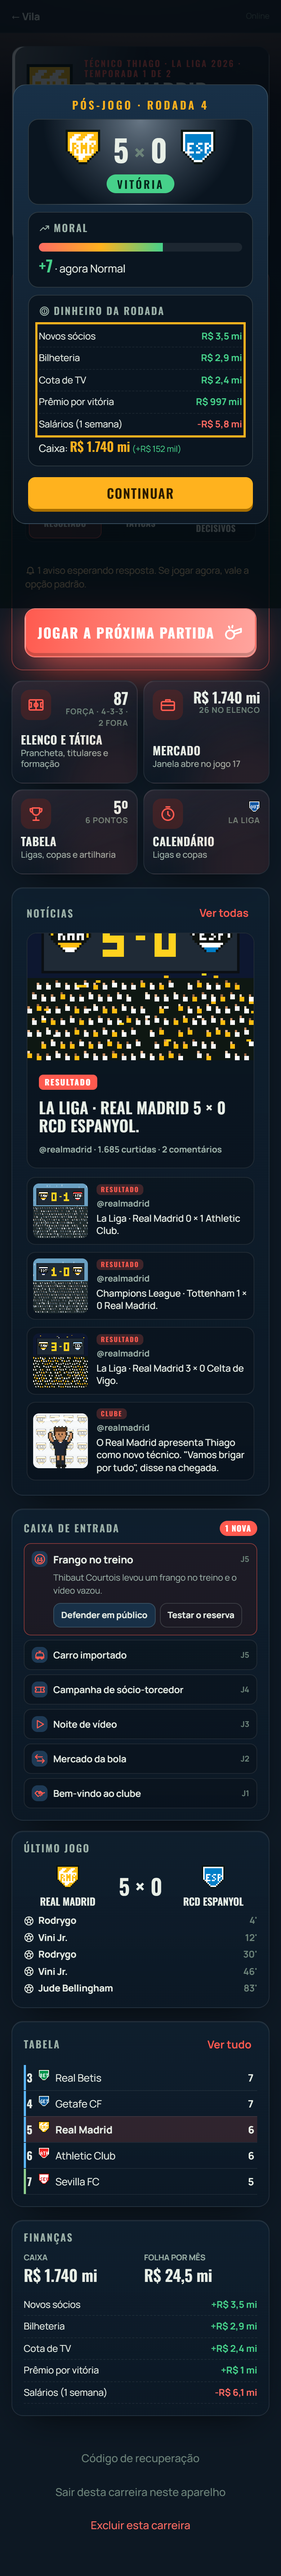
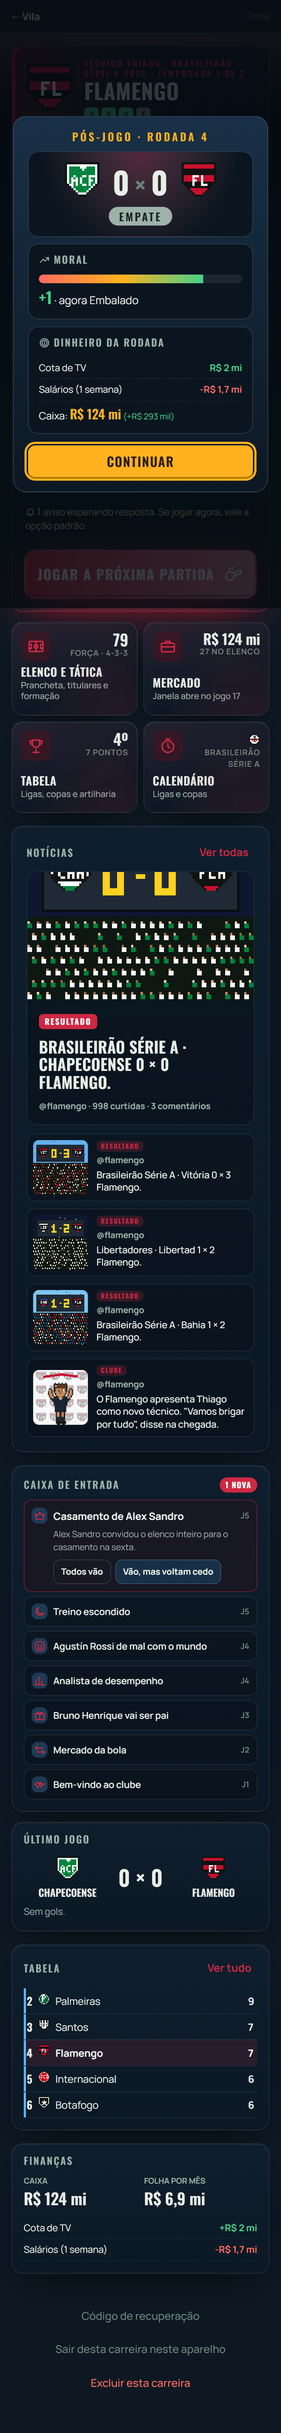
Carreira: o tema do hub na cor do clube
O acento (botão de jogar, destaques, brilho) deixa de ser a cor do campeonato e passa a
ser a primeira cor colorida do clube, clareada só o necessário para dar leitura no fundo
escuro. Clubes preto e branco ficam com o branco. Na sala em grupo, a tela pega a cor do
clube escolhido.

Changed region(s): [[0.0308, 0.0, 0.9846, 0.9688], [0.5538, 0.6875, 0.5846, 0.7812], [0.8615, 0.6562, 0.8923, 0.7188]]

diff --git a/public/carreira/inicio.js b/public/carreira/inicio.js
@@ -65,6 +65,21 @@ function escudo(id, escala = 2) {
 const luz = (hx) => { const n = parseInt(String(hx).slice(1), 16), c = [n >> 16, (n >> 8) & 255, n & 255].map((v) => { v /= 255; return v <= 0.03928 ? v / 12.92 : ((v + 0.055) / 1.055) ** 2.4; }); return 0.2126 * c[0] + 0.7152 * c[1] + 0.0722 * c[2]; };
 const contraste = (a, b) => { const [x, y] = [luz(a), luz(b)].sort((p, q) => q - p); return (x + 0.05) / (y + 0.05); };
 const tintaSobre = (fundo, preferida) => (contraste(fundo, preferida) >= 3 ? preferida : contraste(fundo, "#ffffff") >= contraste(fundo, "#111111") ? "#ffffff" : "#111111");
+// o tema da carreira na cor do clube: o acento (botões, destaques, brilho) é a primeira cor colorida do clube (o preto, o
+// branco e o cinza não contam), clareada só o necessário para dar leitura no fundo escuro. Clube preto e branco fica
+// com o branco. A letra em cima do acento contrasta (branca ou preta).
+const FUNDO_ESCURO = "#0c1824";
+const rgbDe = (hx) => { const n = parseInt(hx.slice(1), 16); return [n >> 16, (n >> 8) & 255, n & 255]; };
+const misturar = (a, b, p) => { const [x, y] = [rgbDe(a), rgbDe(b)]; return "#" + x.map((v, i) => Math.round(v + (y[i] - v) * p).toString(16).padStart(2, "0")).join(""); };
+const colorida = (hx) => { const c = rgbDe(hx); return Math.max(...c) - Math.min(...c) > 60; };
+function temaClube(id) {
+  const c = CLUBES[id]; if (!c) return "";
+  const base = c.cores.find(colorida);
+  let acento = "#ffffff";
+  if (base) { acento = base; for (let p = 0.1; contraste(acento, FUNDO_ESCURO) < 3.2 && p <= 0.7; p += 0.1) acento = misturar(base, "#ffffff", p); }
+  const tinta = contraste(acento, "#ffffff") >= contraste(acento, "#111111") ? "#ffffff" : "#111111";
+  return `--acento:${acento};--acento2:${c.cores.find((cor) => cor !== base) || "#ffffff"};--acento-tinta:${tinta}`;
+}
 const coresClube = (id) => (CLUBES[id] ? `--clube:${CLUBES[id].cores[0]};--clube2:${CLUBES[id].cores[1]};--clube-tinta:${tintaSobre(CLUBES[id].cores[0], CLUBES[id].cores[1])}` : "");
 // a festa (gol seu, contratação): confete nas cores do clube; quem pede menos movimento fica sem
 const festa = () => { if (matchMedia("(prefers-reduced-motion: reduce)").matches || !E) return; const c = CLUBES[E.clube]; Comum.confetti([c.cores[0], c.cores[1], "#ffb21e", "#e8efe7"]); };
@@ -83,7 +98,7 @@ function receber(estado) {
   E = estado;
   // os jovens que subiram da base não estão nos arquivos: chegam com o estado (o clube de origem vem do id)
   for (const [id, j] of Object.entries(E.jovens || {})) { JOGADORES[id] = { ...j, origem: id.replace(/-t\d+b\d+$/, "") }; registrarRosto(j); }
-  document.body.style.cssText = coresClube(E.clube);
+  document.body.style.cssText = `${coresClube(E.clube)};${temaClube(E.clube)}`;
   if (telaAtual && telaAtual !== "partida" && telaAtual !== "inicio") desenharTela(telaAtual);
 }
 // os ícones dos atalhos (montados uma vez)

diff --git a/public/carreira/estilo.css b/public/carreira/estilo.css
@@ -450,19 +450,12 @@ button.perigo:disabled{opacity:.45;cursor:not-allowed}
 
 /* ---------- o hub (a sede): menu de videogame de futebol ----------
    No PC, três colunas: o próximo jogo e os blocos da gestão, as notícias no meio e a caixa de entrada ao lado. O acento
-   segue a cor do campeonato do clube (body[data-liga]); o fundo é um estádio à noite, desenhado só com CSS. */
+   é a cor do clube (temaClube, em inicio.js); o fundo é um estádio à noite, desenhado só com CSS. */
 :root{
   --acento:#39ff88;--acento-tinta:#03140a;--acento2:#22d3ee;
   --vidro:#0c1824b8;--vidro2:#11233399;--vidro-borda:#ffffff17;--vidro-brilho:#ffffff0f;
   --sombra-hub:0 18px 50px -24px #000000e6;--hub-r:16px;
 }
-body[data-liga="brasileirao-2026"]{--acento:#39ff88;--acento2:#ffd84a}
-body[data-liga="inglaterra-2026"]{--acento:#c86bff;--acento2:#00ff85}
-body[data-liga="espanha-2026"]{--acento:#ff5a4f;--acento2:#ffb21e}
-body[data-liga="italia-2026"]{--acento:#4f9dff;--acento2:#36e0c2}
-body[data-liga="alemanha-2026"]{--acento:#ff3b47;--acento2:#f4f4f4}
-body[data-liga="franca-2026"]{--acento:#dae025;--acento2:#4f9dff}
-body[data-liga="inglaterra-2026"],body[data-liga="italia-2026"],body[data-liga="alemanha-2026"],body[data-liga="espanha-2026"]{--acento-tinta:#ffffff}
 body[data-tela=sede] #tela{max-width:1520px}
 
 /* o estádio à noite: os refletores, a arquibancada escura e o gramado listrado lá embaixo */

diff --git a/public/carreira/grupo.js b/public/carreira/grupo.js
@@ -72,6 +72,7 @@ function desenharSala() {
     `<button data-opcao-sala="${k}" data-valor="${v}" aria-pressed="${st.opcoes[k] === v}" ${anfitriao ? "" : "disabled"}>${t}</button>`).join("")}</div></div>`).join("")
     + (anfitriao ? "" : `<p class="suave">Só o anfitrião muda as regras.</p>`);
   $("gMeuClube").textContent = eu && eu.clube ? `Você: ${nomeClube(eu.clube)}` : "";
+  document.body.style.cssText = eu && eu.clube ? `${coresClube(eu.clube)};${temaClube(eu.clube)}` : ""; // a sala já ganha a cor do clube escolhido
   const orc = (c) => c.orcamento || Orcamentos.de(c).caixa, ordemLiga = (c) => ["brasileirao-2026", ...Temporada.EUROPA].indexOf(c.liga);
   $("gClubes").innerHTML = st.clubes.map((id) => CLUBES[id]).filter(Boolean).sort((a, b) => ordemLiga(a) - ordemLiga(b) || orc(b) - orc(a)).map((c) => {
     const dono = st.ocupados[c.id], meu = dono === MEU_ID, outro = dono && !meu ? st.players.find((p) => p.id === dono) : null;

diff --git a/public/carreira/telas.js b/public/carreira/telas.js
@@ -25,7 +25,6 @@ const humor = (m) => (m >= 80 ? "Embalado" : m >= 65 ? "Confiante" : m >= 50 ? "
 
 function telaSede() {
   const c = meuClube(), pos = posicaoDe(E.clube), forma = E.meus.filter((j) => j.placar).slice(-5).map(resultadoMeu);
-  document.body.dataset.liga = c.liga || "brasileirao-2026"; // a cor do campeonato no hub (--acento)
   $("cabecalho").innerHTML = `<div class="hub-clube">${escudo(E.clube, 4)}
     <div class="cab-nome"><span class="sobre">Técnico ${h(E.tecnico.nome)} · ${h(Temporada.NOMES[c.liga] || "Temporada")} ${E.ano}${E.temporadasMax ? ` · temporada ${E.temporada} de ${E.temporadasMax}` : ""}</span><h1>${h(c.nome)}</h1>
       <span class="forma" aria-label="Últimos resultados">${forma.map((r) => `<i class="res ${r}">${r}</i>`).join("") || "<small>A temporada ainda não começou</small>"}</span></div></div>

diff --git a/MUDANCAS.md b/MUDANCAS.md
@@ -73,8 +73,10 @@ carreira solo.
 - **Telas menores:** duas colunas até 1240 px e uma no celular (primeiro o jogo e a gestão, depois as notícias e os
   avisos).
 - **Visual:**
-  - escuro, com o acento na cor do campeonato do clube (`body[data-liga]`): verde-neon no Brasileirão, roxo na
-    Premier, vermelho na La Liga, azul na Serie A, vermelho na Bundesliga e amarelo na Ligue 1;
+  - escuro, com o **tema na cor do seu clube**: o acento (o botão de jogar, os destaques, o brilho) é a primeira cor
+    colorida do clube, clareada só o necessário para dar leitura no fundo escuro (o Flamengo fica vermelho, o
+    Palmeiras verde, o Real Madrid dourado). Clube preto e branco (Corinthians, Botafogo, Santos, Juventus) fica com o
+    branco, e a letra em cima do acento sempre contrasta. Na sala em grupo, a tela pega a cor do clube escolhido;
   - as cores ficam em variáveis no `:root` (`--acento`, `--vidro`...);
   - o fundo é um estádio à noite feito só com CSS (os refletores e o gramado listrado), e os painéis têm efeito de
     vidro (`backdrop-filter`);
@@ -130,7 +132,7 @@ carreira solo.
   de vez em quando (o extrato do último jogo sem a "Cota de TV"). Falhou 1 de 10 vezes no `main`, sem este PR.
 
 ## Fotos (`planos/imagens/`)
-- `carreira-hub-pc.png`: o hub no PC (Real Madrid, depois de 4 jogos).
+- `carreira-hub-pc.png`: o hub no PC (Flamengo, depois de 4 jogos, no vermelho do clube).
 - `carreira-hub-celular.png`: o hub no celular.
 - `carreira-cards-camisas.png`: os cards no mercado, com as camisas de verdade e os rostos pela nacionalidade.
 - `carreira-grupo-sala.png`: a sala de espera da carreira em grupo.
